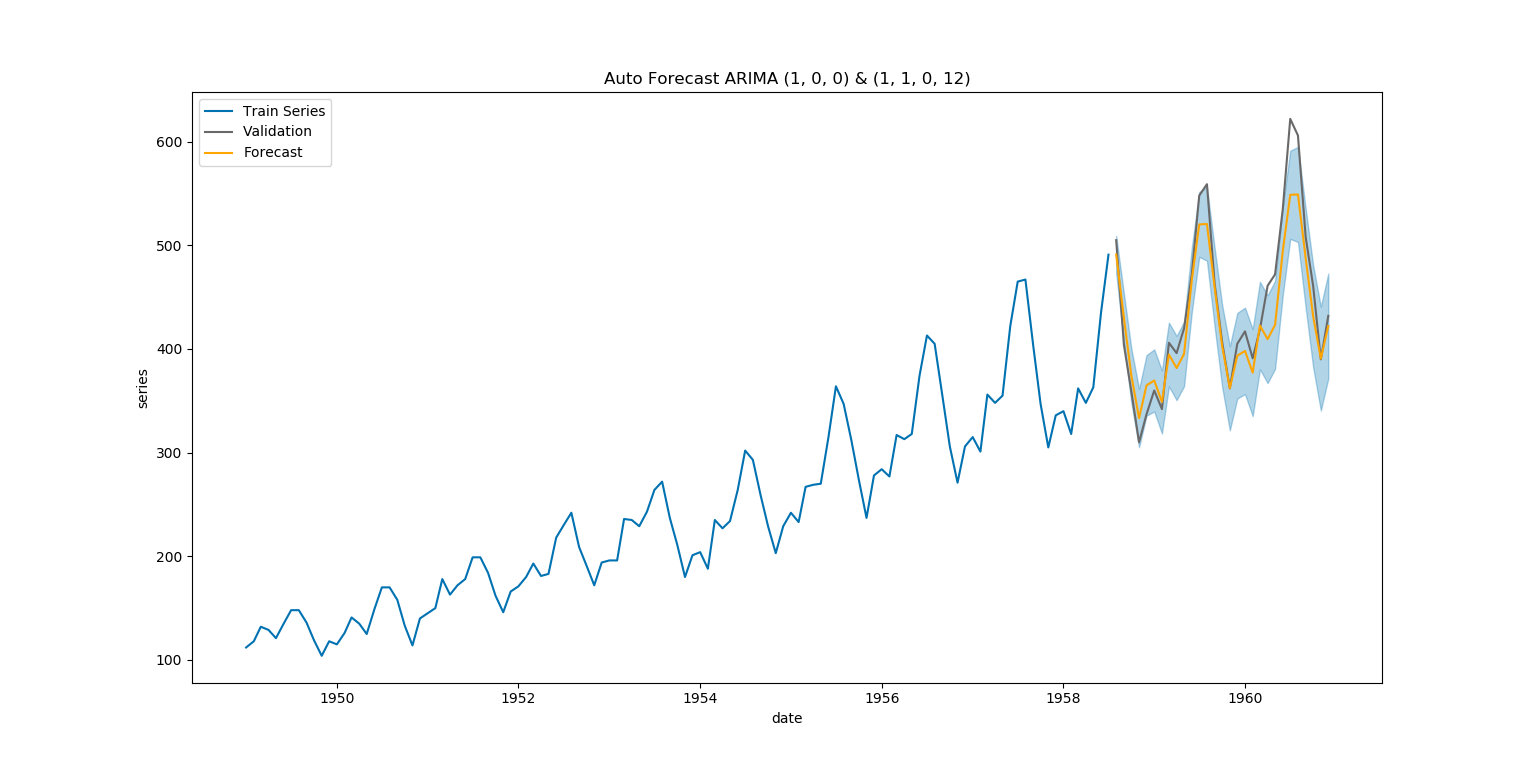
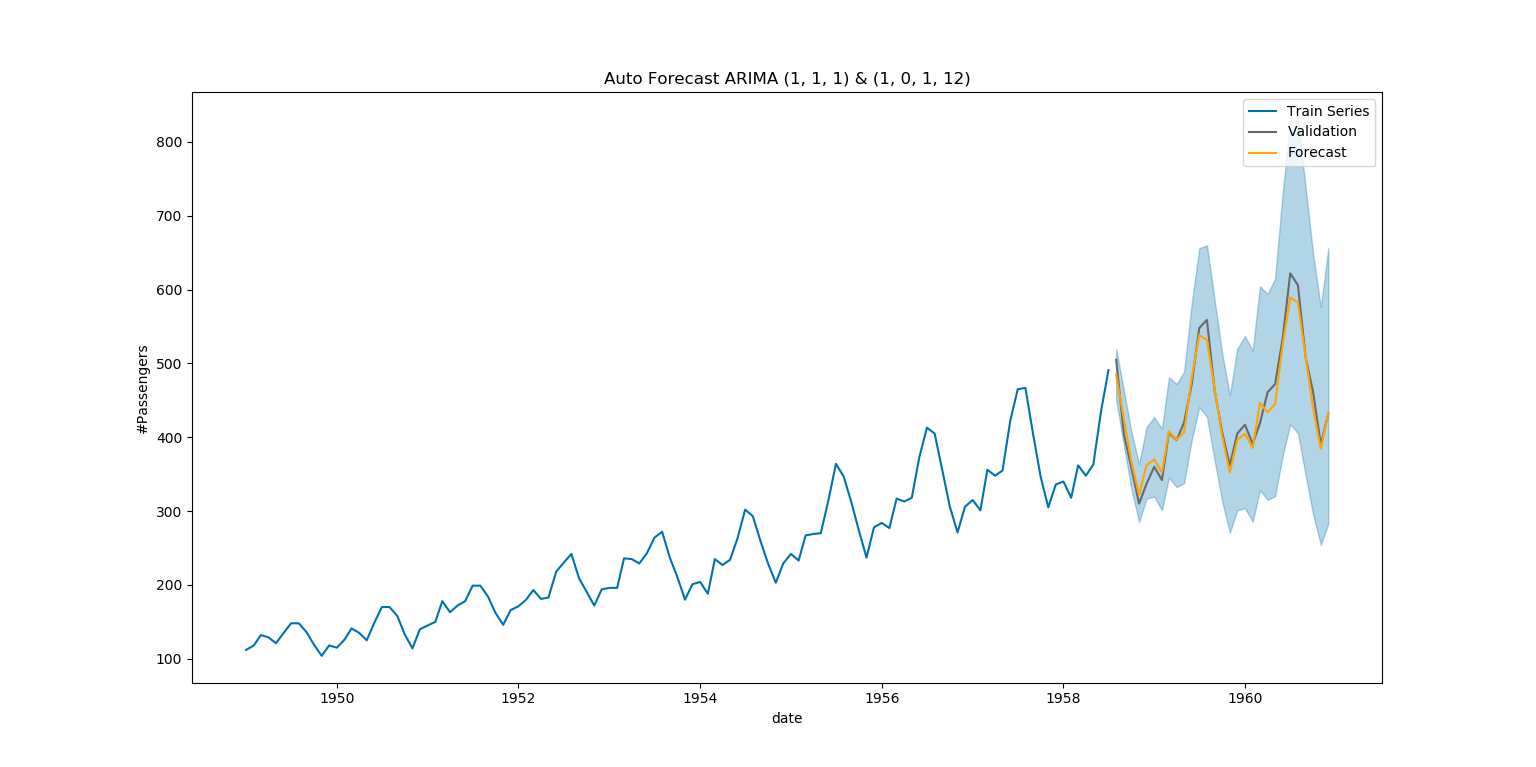
Adding Optional parameter support in script, Power transformer logic and refactoring readme

diff --git a/model/StepwiseModel.py b/model/StepwiseModel.py
@@ -6,6 +6,7 @@ from statsmodels.tsa.arima_model import ARIMA
 from statsmodels.tsa.statespace.sarimax import SARIMAX
 from statsmodels.tools.eval_measures import rmse
 import util.Plotter as Plotter
+from model.PowerTransformer import PowerTransformer
 
 from util import Statistician
 import numpy as np
@@ -27,6 +28,7 @@ class StepwiseModel():
         self.__best_model = None
         self.__best_model_fit = None
         self.__drift = None
+        self.__power_transformer = PowerTransformer()
 
     def fit(self, ts, seasonal_period, exogenous=None, test_ratio=0.2):
         """
@@ -52,6 +54,7 @@ class StepwiseModel():
         self.__best_model_fit, self.__best_model = self.__train_stepwise(train, exogenous=exogenous_train)
 
         test_forecasts = self.predict(steps=len(test), exogenous=exogenous_test)
+
         rmse_score = rmse(test, test_forecasts["yhat"])
         model_order = self.__best_model_fit.specification["order"]
         seasonal_order = self.__best_model_fit.specification["seasonal_order"] if self.__seasonal else None
@@ -62,9 +65,8 @@ class StepwiseModel():
         self.__best_model, self.__best_model_fit, score = self.__train_model(ts, model_order, seasonal_order)
 
         test_forecasts["y"] = test
-        Plotter.plot_forecast(self.__best_model_fit, train, test_forecasts)
+        Plotter.plot_forecast(self.__best_model_fit, train, test_forecasts, ylabel="#Passengers")
         return self.__best_model, self.__best_model_fit, rmse_score
-
 
     def predict(self, steps, exogenous=None):
         """
@@ -79,10 +81,10 @@ class StepwiseModel():
         predictions = self.__best_model_fit.get_prediction(start=start, end=end, exog=exogenous)
         confidence = predictions.conf_int()
         forecast = pd.DataFrame({
-            "dates" : confidence.index,
-            "yhat" : predictions.predicted_mean,
-            "yhat_lower" : confidence.iloc[:, 0],
-            "yhat_upper" : confidence.iloc[:, 1]
+            "dates": confidence.index,
+            "yhat" : self.__power_transformer.inverse_transform(series=predictions.predicted_mean),
+            "yhat_lower": self.__power_transformer.inverse_transform(series=confidence.iloc[:, 0]),
+            "yhat_upper": self.__power_transformer.inverse_transform(series=confidence.iloc[:, 1])
         })
         return forecast
 
@@ -93,6 +95,7 @@ class StepwiseModel():
         :param exogenous: exogenous variables if any
         :return: fit, model
         """
+        ts, _, _ = self.__power_transformer.transform(ts)
         # Get the initial best model
         fit, model, score = self.__initialize_parameters(ts, exogenous=exogenous)
 
@@ -192,7 +195,7 @@ class StepwiseModel():
                 method="lbfgs"
                 trend = "n" if self.__drift == 0 else "c"
                 model = SARIMAX(series, exog=exogenous, order=order, seasonal_order=seasonal_order, trend=trend,
-                                enforce_stationarity=True)
+                                enforce_stationarity=False)
             fit = model.fit(method=method, solver="lbfgs", maxiter=max_iterations, disp=0)
             score = fit.aic
             print("Order : " + str(order), ", Seasonal Order : " + str(seasonal_order) + ", AIC Score : " + str(score))

diff --git a/Forecaster.py b/Forecaster.py
@@ -4,20 +4,31 @@ from model.AutoForecastModel import AutoARIMA
 
 
 def main():
-    if len(sys.argv) < 6:
+    if len(sys.argv) < 4:
         raise SyntaxError("Missing inputs to the script")
 
     DATASET_PATH = sys.argv[1]
-    DATA_TYPE = sys.argv[2]
-    DATE_COL = sys.argv[3]
-    SERIES_NAME = sys.argv[4]
-    FREQUENCY=sys.argv[5]
-    FORECAST_STEPS = int(sys.argv[6])
+    DATE_COL = sys.argv[2]
+    SERIES_NAME = sys.argv[3]
+    FORECAST_STEPS = int(sys.argv[4])
+    OPTIONAL_PARAMETERS = sys.argv[5]
+    FREQUENCY=None
+    SEASONAL_PERIOD=None
 
-    dataframe = DataLoader.load_data(DATASET_PATH, DATA_TYPE, date_col=DATE_COL, frequency=FREQUENCY)
+    # Extract optional parameters from the script inputs
+    if OPTIONAL_PARAMETERS is not None and OPTIONAL_PARAMETERS != "":
+        for parameter in OPTIONAL_PARAMETERS.split(","):
+            vals = parameter.split("=")
+            key = vals[0]
+            value = vals[1]
+            if key == "FREQUENCY":
+                FREQUENCY = value
+            elif key == "SEASONAL_PERIOD":
+                SEASONAL_PERIOD = int(value)
 
+    dataframe = DataLoader.load_data(DATASET_PATH, date_col=DATE_COL, frequency=FREQUENCY)
     model = AutoARIMA()
-    model.fit(dataframe[SERIES_NAME])
+    model.fit(dataframe[SERIES_NAME], seasonal_period=SEASONAL_PERIOD)
     print(model.predict(FORECAST_STEPS))
 
 

diff --git a/model/PowerTransformer.py b/model/PowerTransformer.py
@@ -1,0 +1,37 @@
+from scipy.stats import boxcox
+import pandas as pd
+from scipy import special
+
+
+class PowerTransformer():
+    def __init__(self):
+        self.__lambda = None
+        self.__offset = None
+
+    def transform(self, series):
+        """
+        Transforms the series using the boxcox transformers
+        :param series: series to be transformed
+        :return: transformed_series, lambda, offset
+        """
+        offset = min(series)
+        if offset <= 0:
+            self.__offset = abs(offset) + 1
+        else:
+            self.__offset = 0
+
+        transformed_series, self.__lambda = boxcox(series + self.__offset)
+        transformed_series = pd.Series(transformed_series)
+        transformed_series.index = series.index
+        return transformed_series, self.__lambda, self.__offset
+
+    def inverse_transform(self, series):
+        """
+        Inverse Transforms the passed series using the learned lambda and offset learnt earlier
+        :param series: Series to be reverse transformed
+        :return: inverse transformed series
+        """
+        transformed_series = pd.Series(special.inv_boxcox(series, self.__lambda) - self.__offset)
+        transformed_series.index = series.index
+        return transformed_series
+

diff --git a/model/InverseHyperbolicSinTransformer.py b/model/InverseHyperbolicSinTransformer.py
@@ -1,0 +1,28 @@
+import pandas as pd
+import numpy as np
+
+
+class PowerTransformer():
+    def __init__(self):
+        pass
+
+    def transform(self, series):
+        """
+        Transforms the series using the inverse hyperbolic sin transformer
+        :param series: series to be transformed
+        :return: transformed_series
+        """
+        transformed_series = pd.Series(np.arcsinh(series.values))
+        transformed_series.index = series.index
+        return transformed_series
+
+    def inverse_transform(self, series):
+        """
+        Inverse Transforms the passed series
+        :param series: Series to be reverse transformed
+        :return: inverse transformed series
+        """
+        transformed_series = pd.Series(np.sinh(series.values))
+        transformed_series.index = series.index
+        return transformed_series
+

diff --git a/data/DataLoader.py b/data/DataLoader.py
@@ -3,7 +3,7 @@ import data.preprocess.Indexer as Indexer
 import data.preprocess.MissingValuesImputer as Imputer
 
 
-def load_data(path, file_type, date_col, frequency):
+def load_data(path, date_col, frequency):
     """
     Loads the dataset, indexes it and imputes the missing values
     :param path: path to the data set on disk
@@ -12,7 +12,7 @@ def load_data(path, file_type, date_col, frequency):
     :param frequency: frequency of the dates
     :return: pandas dataframe
     """
-    dataframe = DataReader.read_data(path, file_type, date_col=date_col)
+    dataframe = DataReader.read_data(path, date_col=date_col)
     dataframe = Indexer.index_dates(dataframe, date_col, frequency=frequency)
     dataframe = Imputer.impute(dataframe)
     return dataframe

diff --git a/data/reader/DataReader.py b/data/reader/DataReader.py
@@ -1,8 +1,7 @@
 import pandas as pd
-import data.Constants as Constants
 
 
-def read_data(path_to_data, file_type, date_col):
+def read_data(path_to_data, date_col):
     """
     Reads the datasets from the specified location and returns a pandas dataframe
     :param path_to_data: path of data file on disk
@@ -11,7 +10,7 @@ def read_data(path_to_data, file_type, date_col):
     :return: pandas dataframe
     """
     """"""
-    if file_type == Constants.CSV:
+    if path_to_data.endswith("csv"):
         return __read_csv(path_to_data, parse_dates=[date_col])
     else:
         return None

diff --git a/model/AutoForecastModel.py b/model/AutoForecastModel.py
@@ -3,7 +3,7 @@ import warnings
 from model.IterativeModel import RandomSearchARIMA
 from model.StepwiseModel import StepwiseModel
 from model.SeasonalEstimator import SeasonalEstimator
-import pandas as pd
+
 
 warnings.filterwarnings("ignore")
 
@@ -51,6 +51,7 @@ class AutoARIMA():
         """
         if self.__seasonal_as_exogenous:
             seasonal_series = self.__seasonal_estimator.predict_seasonal_series(steps=steps)
-        else:seasonal_series = None
+        else:
+            seasonal_series = None
         return self.__model.predict(steps, exogenous=seasonal_series)
 

diff --git a/model/SeasonalEstimator.py b/model/SeasonalEstimator.py
@@ -25,7 +25,7 @@ class SeasonalEstimator():
             seasonal_series = pd.Series(seasonal_series, index=data.index)
             self.__diff = nobs % self.__seasonality
 
-        return self.__seasonality, pd.DataFrame({"seasonal":seasonal_series})
+        return self.__seasonality, pd.DataFrame({"seasonal": seasonal_series})
 
     def predict_seasonal_series(self, steps):
         """

diff --git a/README.md b/README.md
@@ -12,9 +12,11 @@ Additional Features above the basic Auto-ARIMA implementation,
 
 Usage:
 
-forecast <data_file_disk_path> <data_file_type> <date_column_name> <time_series_column_name> <date_frequency> <forecast_steps>
+forecast <data_file_path_on_disk> <date_column_name> <time_series_column_name> <forecast_steps> ["FREQUENCY=<date_frequency>,SEASONAL_PERIOD=<seasonal_period>"]
 
-Sample Output after model training
+FREQUENCY and SEASONAL_PERIOD are optional parameters.
+
+Output after model training on the Air Passengers dataset
 ![Airlines Dataset example](docs/AirlinesForecast.png?raw=true "Airlines Data Forecasting")
 
 Currently only csv data file type is supported.
